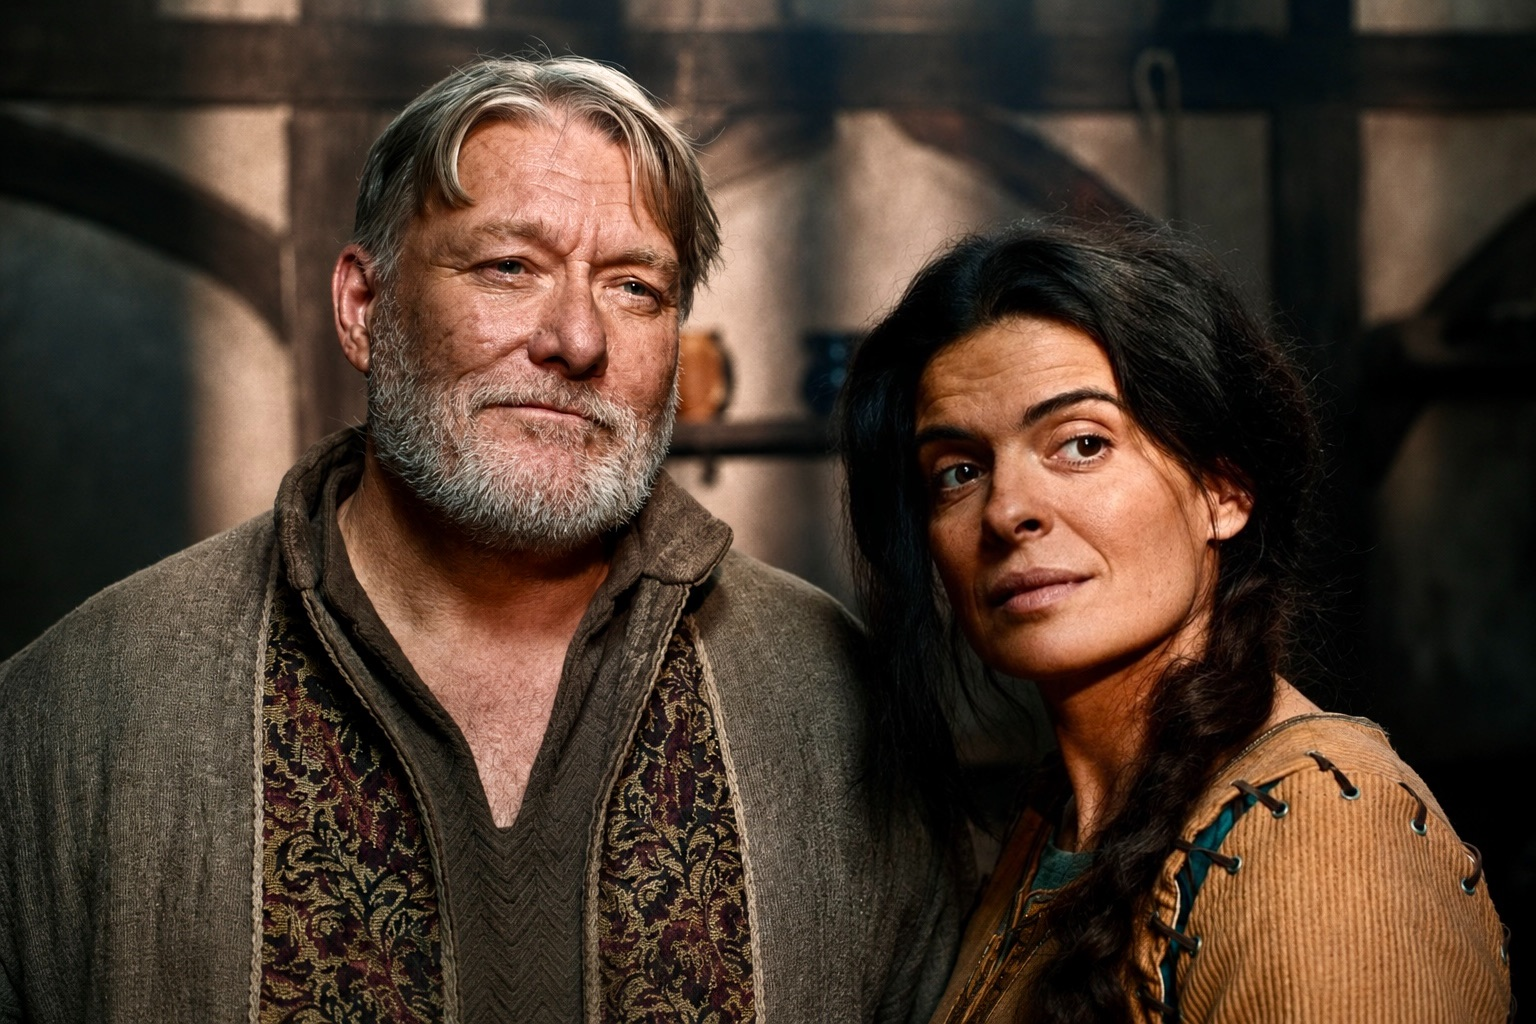
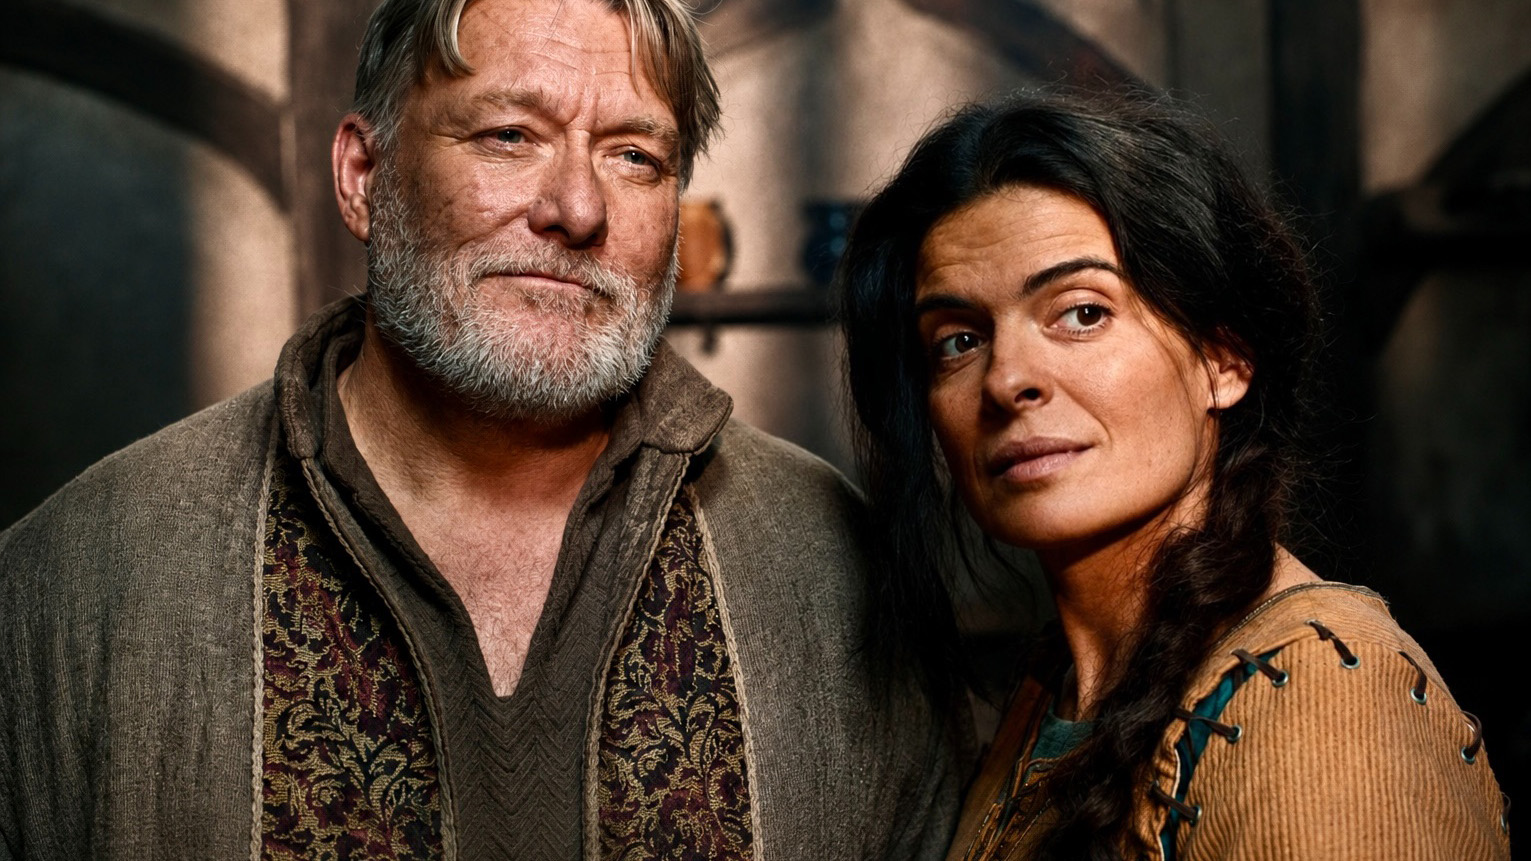
Add files via upload

diff --git a/index.html b/index.html
@@ -1251,15 +1251,7 @@
         </div>
       </div>
       <div class="work-item">
-        <img src="https://raw.githubusercontent.com/LordHidetora/milena-predic-website/main/work_2.jpg" alt="Isolation">
-        <div class="work-item-overlay"></div>
-        <div class="work-item-info">
-          <div class="work-item-title">Isolation</div>
-          <div class="work-item-role">Dr. Ema Popović · 2024</div>
-        </div>
-      </div>
-      <div class="work-item">
-        <img src="https://raw.githubusercontent.com/LordHidetora/milena-predic-website/main/work_3.jpg" alt="Sedef Magla">
+        <img src="https://raw.githubusercontent.com/LordHidetora/milena-predic-website/main/work_2.JPG" alt="Sedef Magla">
         <div class="work-item-overlay"></div>
         <div class="work-item-info">
           <div class="work-item-title">Sedef Magla</div>
@@ -1267,7 +1259,23 @@
         </div>
       </div>
       <div class="work-item">
-        <img src="https://raw.githubusercontent.com/LordHidetora/milena-predic-website/main/work_4.jpg" alt="A Cross in the Desert">
+        <img src="https://raw.githubusercontent.com/LordHidetora/milena-predic-website/main/work_3.JPG" alt="Hajduk u Beogradu">
+        <div class="work-item-overlay"></div>
+        <div class="work-item-info">
+          <div class="work-item-title">Hajduk u Beogradu</div>
+          <div class="work-item-role">Srpkinja · 2025</div>
+        </div>
+      </div>
+      <div class="work-item">
+        <img src="https://raw.githubusercontent.com/LordHidetora/milena-predic-website/main/work_4.JPG" alt="Isolation">
+        <div class="work-item-overlay"></div>
+        <div class="work-item-info">
+          <div class="work-item-title">Isolation</div>
+          <div class="work-item-role">Dr. Ema Popović · 2024</div>
+        </div>
+      </div>
+      <div class="work-item">
+        <img src="https://raw.githubusercontent.com/LordHidetora/milena-predic-website/main/work_5.JPG" alt="A Cross in the Desert">
         <div class="work-item-overlay"></div>
         <div class="work-item-info">
           <div class="work-item-title">A Cross in the Desert</div>
@@ -1275,11 +1283,11 @@
         </div>
       </div>
       <div class="work-item">
-        <img src="https://raw.githubusercontent.com/LordHidetora/milena-predic-website/main/work_5.jpg" alt="Submission">
+        <img src="https://raw.githubusercontent.com/LordHidetora/milena-predic-website/main/work_6.JPG" alt="Taxi Blues">
         <div class="work-item-overlay"></div>
         <div class="work-item-info">
-          <div class="work-item-title">Submission</div>
-          <div class="work-item-role">2019 · Best Actress Award</div>
+          <div class="work-item-title">Taxi Blues</div>
+          <div class="work-item-role">Tanja · 2019</div>
         </div>
       </div>
       <div class="work-item">
